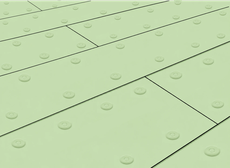
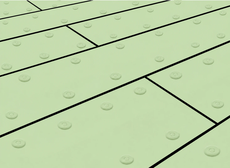
既存防水の絵：塩ビ（接着・機械固定）・ウレタンもフチ太めに差し替え
Claude-Session: https://claude.ai/code/session_01SgjtmfdbwY5jXVXTNgUKFA

diff --git a/index.html b/index.html
@@ -393,7 +393,7 @@ nav, nav#nav{overflow:visible; padding-top:2px;}
 
 <!-- 版の表示：スマホに届いている中身がどれかを、お互いに確認するための小さな印。
      不要になったらこの1行と #nnver の指定を消してください。 -->
-<div id="nnver">v2026-09-25 q</div>
+<div id="nnver">v2026-09-25 r</div>
 <script>
 /* ============ 実機の計測結果を表示（原因調査用・2026-07-28） ============
    数字の意味（単位はミリ秒）
@@ -744,7 +744,7 @@ nav, nav#nav{justify-content:center !important; padding-left:6px !important; pad
    古いものが出続けることがある。そこで ver.txt（数バイト）だけを
    毎回見に行き、公開版と違っていたら保存分を捨てて1回だけ読み直す。
    ★公開のたびに ver.txt と、下の NN_VER を同じ文字に更新すること。 */
-const NN_VER='2026-09-25q';
+const NN_VER='2026-09-25r';
 /* ============ 表示にかかった時間の記録（原因調査用・2026-07-28） ============
    スマホの実機でどこに時間がかかっているかを数字で出す。
    ・net  ＝ページを要求してから最初の返事が来るまで（通信の待ち）

diff --git a/camera.html b/camera.html
@@ -1271,7 +1271,7 @@ nav, nav#nav{justify-content:center !important; padding-left:6px !important; pad
    古いものが出続けることがある。そこで ver.txt（数バイト）だけを
    毎回見に行き、公開版と違っていたら保存分を捨てて1回だけ読み直す。
    ★公開のたびに ver.txt と、下の NN_VER を同じ文字に更新すること。 */
-const NN_VER='2026-09-25q';
+const NN_VER='2026-09-25r';
 /* ============ 表示にかかった時間の記録（原因調査用・2026-07-28） ============
    スマホの実機でどこに時間がかかっているかを数字で出す。
    ・net  ＝ページを要求してから最初の返事が来るまで（通信の待ち）

diff --git a/genba_map_v36.html b/genba_map_v36.html
@@ -5019,7 +5019,7 @@ nav, nav#nav{justify-content:center !important; padding-left:6px !important; pad
    古いものが出続けることがある。そこで ver.txt（数バイト）だけを
    毎回見に行き、公開版と違っていたら保存分を捨てて1回だけ読み直す。
    ★公開のたびに ver.txt と、下の NN_VER を同じ文字に更新すること。 */
-const NN_VER='2026-09-25q';
+const NN_VER='2026-09-25r';
 /* ============ 表示にかかった時間の記録（原因調査用・2026-07-28） ============
    スマホの実機でどこに時間がかかっているかを数字で出す。
    ・net  ＝ページを要求してから最初の返事が来るまで（通信の待ち）

diff --git a/hacchu.html b/hacchu.html
@@ -1091,7 +1091,7 @@ nav, nav#nav{justify-content:center !important; padding-left:6px !important; pad
    古いものが出続けることがある。そこで ver.txt（数バイト）だけを
    毎回見に行き、公開版と違っていたら保存分を捨てて1回だけ読み直す。
    ★公開のたびに ver.txt と、下の NN_VER を同じ文字に更新すること。 */
-const NN_VER='2026-09-25q';
+const NN_VER='2026-09-25r';
 /* ============ 表示にかかった時間の記録（原因調査用・2026-07-28） ============
    スマホの実機でどこに時間がかかっているかを数字で出す。
    ・net  ＝ページを要求してから最初の返事が来るまで（通信の待ち）

diff --git a/kirokucho_demo.html b/kirokucho_demo.html
@@ -4832,7 +4832,7 @@ nav, nav#nav{justify-content:center !important; padding-left:6px !important; pad
    古いものが出続けることがある。そこで ver.txt（数バイト）だけを
    毎回見に行き、公開版と違っていたら保存分を捨てて1回だけ読み直す。
    ★公開のたびに ver.txt と、下の NN_VER を同じ文字に更新すること。 */
-const NN_VER='2026-09-25q';
+const NN_VER='2026-09-25r';
 /* ============ 表示にかかった時間の記録（原因調査用・2026-07-28） ============
    スマホの実機でどこに時間がかかっているかを数字で出す。
    ・net  ＝ページを要求してから最初の返事が来るまで（通信の待ち）

diff --git a/kokkosho.html b/kokkosho.html
@@ -2447,7 +2447,7 @@ nav, nav#nav{justify-content:center !important; padding-left:6px !important; pad
    古いものが出続けることがある。そこで ver.txt（数バイト）だけを
    毎回見に行き、公開版と違っていたら保存分を捨てて1回だけ読み直す。
    ★公開のたびに ver.txt と、下の NN_VER を同じ文字に更新すること。 */
-const NN_VER='2026-09-25q';
+const NN_VER='2026-09-25r';
 /* ============ 表示にかかった時間の記録（原因調査用・2026-07-28） ============
    スマホの実機でどこに時間がかかっているかを数字で出す。
    ・net  ＝ページを要求してから最初の返事が来るまで（通信の待ち）

diff --git a/library.html b/library.html
@@ -1170,7 +1170,7 @@ nav, nav#nav{justify-content:center !important; padding-left:6px !important; pad
    古いものが出続けることがある。そこで ver.txt（数バイト）だけを
    毎回見に行き、公開版と違っていたら保存分を捨てて1回だけ読み直す。
    ★公開のたびに ver.txt と、下の NN_VER を同じ文字に更新すること。 */
-const NN_VER='2026-09-25q';
+const NN_VER='2026-09-25r';
 /* ============ 表示にかかった時間の記録（原因調査用・2026-07-28） ============
    スマホの実機でどこに時間がかかっているかを数字で出す。
    ・net  ＝ページを要求してから最初の返事が来るまで（通信の待ち）

diff --git a/shiyo_toroku.html b/shiyo_toroku.html
@@ -1665,7 +1665,7 @@ nav, nav#nav{justify-content:center !important; padding-left:6px !important; pad
    古いものが出続けることがある。そこで ver.txt（数バイト）だけを
    毎回見に行き、公開版と違っていたら保存分を捨てて1回だけ読み直す。
    ★公開のたびに ver.txt と、下の NN_VER を同じ文字に更新すること。 */
-const NN_VER='2026-09-25q';
+const NN_VER='2026-09-25r';
 /* ============ 表示にかかった時間の記録（原因調査用・2026-07-28） ============
    スマホの実機でどこに時間がかかっているかを数字で出す。
    ・net  ＝ページを要求してから最初の返事が来るまで（通信の待ち）

diff --git a/yougo.html b/yougo.html
@@ -1406,7 +1406,7 @@ nav, nav#nav{justify-content:center !important; padding-left:6px !important; pad
    古いものが出続けることがある。そこで ver.txt（数バイト）だけを
    毎回見に行き、公開版と違っていたら保存分を捨てて1回だけ読み直す。
    ★公開のたびに ver.txt と、下の NN_VER を同じ文字に更新すること。 */
-const NN_VER='2026-09-25q';
+const NN_VER='2026-09-25r';
 /* ============ 表示にかかった時間の記録（原因調査用・2026-07-28） ============
    スマホの実機でどこに時間がかかっているかを数字で出す。
    ・net  ＝ページを要求してから最初の返事が来るまで（通信の待ち）

diff --git a/zairyo_toroku.html b/zairyo_toroku.html
@@ -1538,7 +1538,7 @@ nav, nav#nav{justify-content:center !important; padding-left:6px !important; pad
    古いものが出続けることがある。そこで ver.txt（数バイト）だけを
    毎回見に行き、公開版と違っていたら保存分を捨てて1回だけ読み直す。
    ★公開のたびに ver.txt と、下の NN_VER を同じ文字に更新すること。 */
-const NN_VER='2026-09-25q';
+const NN_VER='2026-09-25r';
 /* ============ 表示にかかった時間の記録（原因調査用・2026-07-28） ============
    スマホの実機でどこに時間がかかっているかを数字で出す。
    ・net  ＝ページを要求してから最初の返事が来るまで（通信の待ち）

diff --git a/zumen_sekisan.html b/zumen_sekisan.html
@@ -6252,7 +6252,7 @@ nav, nav#nav{justify-content:center !important; padding-left:6px !important; pad
    古いものが出続けることがある。そこで ver.txt（数バイト）だけを
    毎回見に行き、公開版と違っていたら保存分を捨てて1回だけ読み直す。
    ★公開のたびに ver.txt と、下の NN_VER を同じ文字に更新すること。 */
-const NN_VER='2026-09-25q';
+const NN_VER='2026-09-25r';
 /* ============ 表示にかかった時間の記録（原因調査用・2026-07-28） ============
    スマホの実機でどこに時間がかかっているかを数字で出す。
    ・net  ＝ページを要求してから最初の返事が来るまで（通信の待ち）

diff --git a/sw.js b/sw.js
@@ -11,7 +11,7 @@
      ので、こちらの修正が確実に端末へ届く。
      ★ページを直したら、必ずこの番号を1つ上げること。
    ============================================================ */
-const CACHE = 'nn-cache-v587';
+const CACHE = 'nn-cache-v588';
 
 const ASSETS = [
   './compact_buttons.js',
